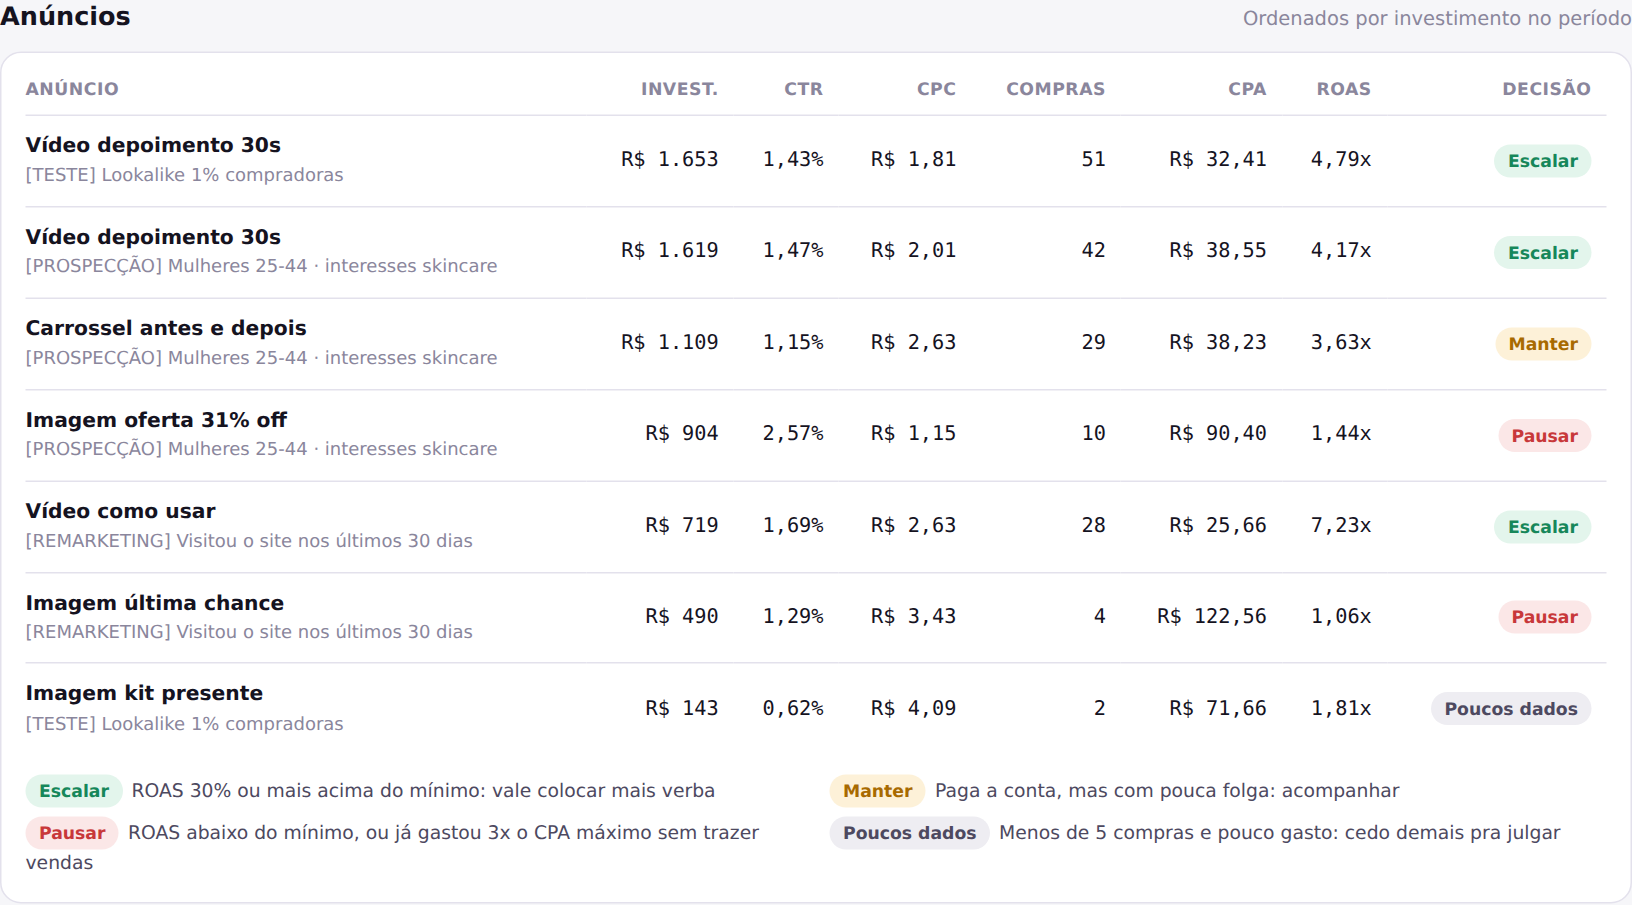
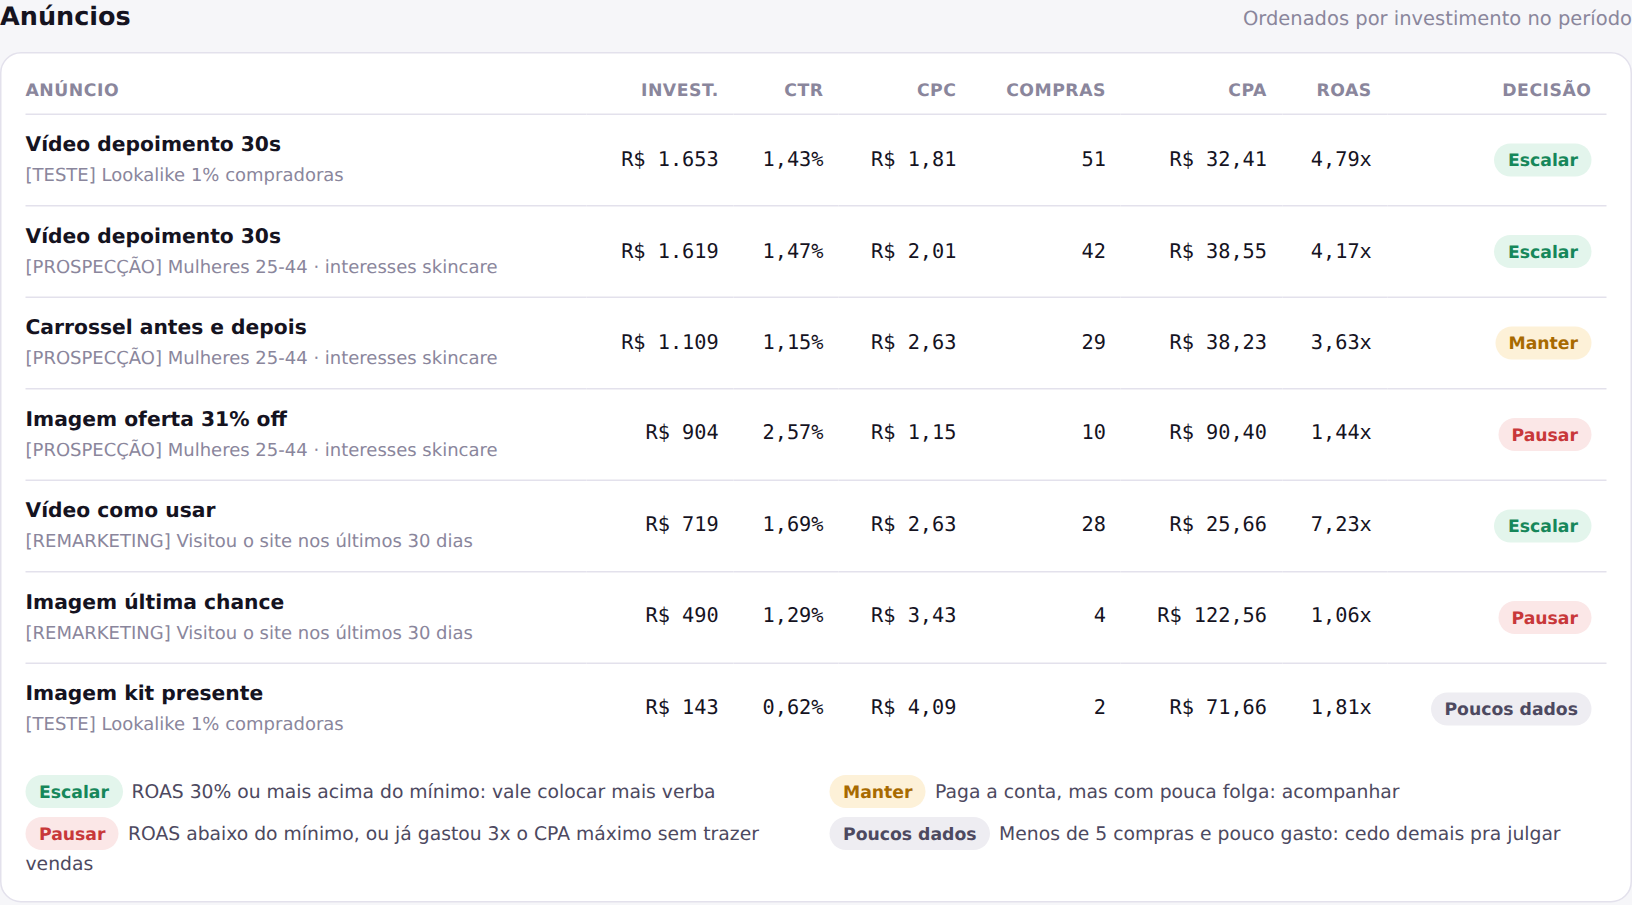
Revisão geral: leitura robusta de exportações reais e XSS pela data
- Célula vazia (como o Meta exporta métricas zeradas) derrubava o script
- Número com ponto decimal (conta em inglês) era lido 100x maior
- Contagens com ponto de milhar ("1.758") passam a ser lidas certo
- Calendário contínuo: dias sem gasto não somem da janela de período
- Data do CSV ia sem escape pro gráfico e executava código (XSS);
  agora toda data é validada e colunas faltando geram erro claro
- Leitura do gráfico zera ao trocar período e funciona com toque
- Rótulos "(Meta)" nos indicadores atribuídos; KPIs alinhados
- README: achados da revisão, limites da regra de escalar, afirmações
  que não dava pra sustentar suavizadas

Claude-Session: https://claude.ai/code/session_01SNGhJTcjeFguq5sm6ngrpK

diff --git a/public/index.html b/public/index.html
@@ -72,8 +72,9 @@
   .card{background:var(--surface); border:1px solid var(--border); border-radius:14px; padding:16px;}
 
   .kpis{display:grid; grid-template-columns:repeat(6,1fr); gap:10px;}
-  .kpi{background:var(--surface); border:1px solid var(--border); border-radius:14px; padding:13px 14px; min-width:0;}
-  .kpi .lbl{font-size:11.5px; font-weight:600; color:var(--muted); text-transform:uppercase; letter-spacing:.04em;}
+  .kpi{background:var(--surface); border:1px solid var(--border); border-radius:14px; padding:13px 14px; min-width:0; display:flex; flex-direction:column;}
+  /* flex:1 no rótulo: se um rótulo quebra linha, os valores da mesma fileira continuam alinhados */
+  .kpi .lbl{flex:1;font-size:11.5px; font-weight:600; color:var(--muted); text-transform:uppercase; letter-spacing:.04em;}
   .kpi .val{font:600 21px var(--mono); margin-top:5px; font-variant-numeric:tabular-nums; overflow-wrap:anywhere;}
   .kpi .sub{font-size:12px; color:var(--ink-2); margin-top:3px; min-height:17px;}
   .delta{font-weight:700;}
@@ -169,7 +170,8 @@
     </div>
     <label class="margem">
       Margem do produto
-      <input type="number" id="margem" min="5" max="90" step="1" value="35" inputmode="numeric">%
+      <input type="number" id="margem" min="5" max="90" step="1" value="35" inputmode="numeric"
+        title="O que sobra de cada venda depois do custo do produto, impostos, taxa do cartão e frete — antes de pagar o anúncio">%
       <span class="limites">ROAS mínimo <span class="be num" id="be">—</span> · CPA máximo <span class="be num" id="cpamax">—</span></span>
     </label>
   </div>
@@ -186,9 +188,9 @@
       <div class="kpi"><div class="lbl">Investimento</div><div class="val" id="k-gasto">—</div><div class="sub" id="d-gasto"></div></div>
       <div class="kpi"><div class="lbl">Receita (Meta)</div><div class="val" id="k-receita">—</div><div class="sub" id="d-receita"></div></div>
       <div class="kpi"><div class="lbl">ROAS (Meta)</div><div class="val" id="k-roas">—</div><div class="sub" id="d-roas"></div></div>
-      <div class="kpi"><div class="lbl">Compras</div><div class="val" id="k-compras">—</div><div class="sub" id="d-compras"></div></div>
+      <div class="kpi"><div class="lbl">Compras (Meta)</div><div class="val" id="k-compras">—</div><div class="sub" id="d-compras"></div></div>
       <div class="kpi"><div class="lbl">Custo por compra</div><div class="val" id="k-cpa">—</div><div class="sub" id="d-cpa"></div></div>
-      <div class="kpi"><div class="lbl">Lucro estimado</div><div class="val" id="k-lucro">—</div><div class="sub" id="d-lucro"></div></div>
+      <div class="kpi"><div class="lbl">Lucro estimado (Meta)</div><div class="val" id="k-lucro">—</div><div class="sub" id="d-lucro"></div></div>
     </div>
   </section>
 
@@ -226,7 +228,7 @@
     </div>
     <div class="card grafico">
       <div id="grafico"></div>
-      <div class="leitura num" id="leitura">Passe o dedo ou o mouse sobre o gráfico</div>
+      <div class="leitura num" id="leitura"></div>
     </div>
   </section>
 
@@ -460,7 +462,8 @@ function renderGrafico(porDia, ini){
 
   var cursor = document.getElementById("cursor");
   var leitura = document.getElementById("leitura");
-  document.getElementById("alvo").addEventListener("pointermove", function(ev){
+  leitura.textContent = "Toque ou passe o mouse sobre o gráfico pra ver cada dia";
+  function mostrarDia(ev){
     var r = ev.currentTarget.getBoundingClientRect();
     var i = Math.round((ev.clientX - r.left) / r.width * (n - 1));
     i = Math.max(0, Math.min(n - 1, i));
@@ -468,7 +471,10 @@ function renderGrafico(porDia, ini){
     cursor.setAttribute("x1", x(i)); cursor.setAttribute("x2", x(i));
     leitura.textContent = dataBR(D.dias[ini + i]) + " · investimento " + brl.format(d.gasto) +
       " · receita " + brl.format(d.valor) + " · ROAS " + (d.gasto ? vezes(d.valor / d.gasto) : "—");
-  });
+  }
+  var alvo = document.getElementById("alvo");
+  alvo.addEventListener("pointermove", mostrarDia);
+  alvo.addEventListener("pointerdown", mostrarDia);
 }
 
 function renderAtribuicao(t, loja, roasMin){

diff --git a/scripts/dashboard_template.html b/scripts/dashboard_template.html
@@ -72,8 +72,9 @@
   .card{background:var(--surface); border:1px solid var(--border); border-radius:14px; padding:16px;}
 
   .kpis{display:grid; grid-template-columns:repeat(6,1fr); gap:10px;}
-  .kpi{background:var(--surface); border:1px solid var(--border); border-radius:14px; padding:13px 14px; min-width:0;}
-  .kpi .lbl{font-size:11.5px; font-weight:600; color:var(--muted); text-transform:uppercase; letter-spacing:.04em;}
+  .kpi{background:var(--surface); border:1px solid var(--border); border-radius:14px; padding:13px 14px; min-width:0; display:flex; flex-direction:column;}
+  /* flex:1 no rótulo: se um rótulo quebra linha, os valores da mesma fileira continuam alinhados */
+  .kpi .lbl{flex:1;font-size:11.5px; font-weight:600; color:var(--muted); text-transform:uppercase; letter-spacing:.04em;}
   .kpi .val{font:600 21px var(--mono); margin-top:5px; font-variant-numeric:tabular-nums; overflow-wrap:anywhere;}
   .kpi .sub{font-size:12px; color:var(--ink-2); margin-top:3px; min-height:17px;}
   .delta{font-weight:700;}
@@ -169,7 +170,8 @@
     </div>
     <label class="margem">
       Margem do produto
-      <input type="number" id="margem" min="5" max="90" step="1" value="35" inputmode="numeric">%
+      <input type="number" id="margem" min="5" max="90" step="1" value="35" inputmode="numeric"
+        title="O que sobra de cada venda depois do custo do produto, impostos, taxa do cartão e frete — antes de pagar o anúncio">%
       <span class="limites">ROAS mínimo <span class="be num" id="be">—</span> · CPA máximo <span class="be num" id="cpamax">—</span></span>
     </label>
   </div>
@@ -186,9 +188,9 @@
       <div class="kpi"><div class="lbl">Investimento</div><div class="val" id="k-gasto">—</div><div class="sub" id="d-gasto"></div></div>
       <div class="kpi"><div class="lbl">Receita (Meta)</div><div class="val" id="k-receita">—</div><div class="sub" id="d-receita"></div></div>
       <div class="kpi"><div class="lbl">ROAS (Meta)</div><div class="val" id="k-roas">—</div><div class="sub" id="d-roas"></div></div>
-      <div class="kpi"><div class="lbl">Compras</div><div class="val" id="k-compras">—</div><div class="sub" id="d-compras"></div></div>
+      <div class="kpi"><div class="lbl">Compras (Meta)</div><div class="val" id="k-compras">—</div><div class="sub" id="d-compras"></div></div>
       <div class="kpi"><div class="lbl">Custo por compra</div><div class="val" id="k-cpa">—</div><div class="sub" id="d-cpa"></div></div>
-      <div class="kpi"><div class="lbl">Lucro estimado</div><div class="val" id="k-lucro">—</div><div class="sub" id="d-lucro"></div></div>
+      <div class="kpi"><div class="lbl">Lucro estimado (Meta)</div><div class="val" id="k-lucro">—</div><div class="sub" id="d-lucro"></div></div>
     </div>
   </section>
 
@@ -226,7 +228,7 @@
     </div>
     <div class="card grafico">
       <div id="grafico"></div>
-      <div class="leitura num" id="leitura">Passe o dedo ou o mouse sobre o gráfico</div>
+      <div class="leitura num" id="leitura"></div>
     </div>
   </section>
 
@@ -460,7 +462,8 @@ function renderGrafico(porDia, ini){
 
   var cursor = document.getElementById("cursor");
   var leitura = document.getElementById("leitura");
-  document.getElementById("alvo").addEventListener("pointermove", function(ev){
+  leitura.textContent = "Toque ou passe o mouse sobre o gráfico pra ver cada dia";
+  function mostrarDia(ev){
     var r = ev.currentTarget.getBoundingClientRect();
     var i = Math.round((ev.clientX - r.left) / r.width * (n - 1));
     i = Math.max(0, Math.min(n - 1, i));
@@ -468,7 +471,10 @@ function renderGrafico(porDia, ini){
     cursor.setAttribute("x1", x(i)); cursor.setAttribute("x2", x(i));
     leitura.textContent = dataBR(D.dias[ini + i]) + " · investimento " + brl.format(d.gasto) +
       " · receita " + brl.format(d.valor) + " · ROAS " + (d.gasto ? vezes(d.valor / d.gasto) : "—");
-  });
+  }
+  var alvo = document.getElementById("alvo");
+  alvo.addEventListener("pointermove", mostrarDia);
+  alvo.addEventListener("pointerdown", mostrarDia);
 }
 
 function renderAtribuicao(t, loja, roasMin){

diff --git a/scripts/gerar_dashboard_html.py b/scripts/gerar_dashboard_html.py
@@ -12,28 +12,61 @@ ou a margem do produto.
 import csv
 import json
 import os
-from datetime import date
+from datetime import date, datetime, timedelta
 
 from gerar_dados import slug
 
 RAIZ = os.path.join(os.path.dirname(__file__), "..")
 
 
-def numero_br(texto: str) -> float:
-    """'1.234,56' -> 1234.56 (formato do Excel brasileiro)."""
-    return float(texto.replace(".", "").replace(",", "."))
+COLUNAS_META = [
+    "Dia", "Nome da campanha", "Nome do anúncio", "Valor usado (BRL)", "Impressões",
+    "Cliques no link", "Adições ao carrinho", "Finalizações de compra iniciadas",
+    "Compras", "Valor de conversão de compras",
+]
+COLUNAS_PEDIDOS = ["Data", "Status do pagamento", "Total", "utm_campaign", "utm_content"]
 
 
-def ler_csv(nome: str) -> list[dict]:
-    with open(os.path.join(RAIZ, "data", "raw", nome), newline="", encoding="utf-8") as f:
-        return list(csv.DictReader(f, delimiter=";"))
+def numero(texto: str) -> float:
+    """
+    Aceita os dois formatos que o Meta exporta, conforme o idioma da conta:
+    '1.234,56' (português) e '1234.56' (inglês). Célula vazia = 0 — o Meta
+    deixa em branco as métricas que não aconteceram no dia.
+    """
+    texto = texto.strip()
+    if not texto:
+        return 0.0
+    if "," in texto:
+        texto = texto.replace(".", "").replace(",", ".")
+    return float(texto)
+
+
+def inteiro(texto: str) -> int:
+    """Contagens nunca têm casas decimais: '1.758' e '1,758' são mil e poucos."""
+    texto = texto.strip().replace(".", "").replace(",", "")
+    return int(texto) if texto else 0
+
+
+def ler_csv(nome: str, colunas: list[str]) -> list[dict]:
+    with open(os.path.join(RAIZ, "data", "raw", nome), newline="", encoding="utf-8-sig") as f:
+        leitor = csv.DictReader(f, delimiter=";")
+        faltando = [c for c in colunas if c not in (leitor.fieldnames or [])]
+        if faltando:
+            raise SystemExit(f"{nome}: faltam as colunas {faltando}. Confira se o relatório foi "
+                             "exportado com essas métricas (e com separador ';').")
+        return list(leitor)
 
 
 def montar_dados() -> dict:
-    meta = ler_csv("meta_ads_export.csv")
-    pedidos = ler_csv("pedidos_nuvemshop.csv")
+    meta = ler_csv("meta_ads_export.csv", COLUNAS_META)
+    pedidos = ler_csv("pedidos_nuvemshop.csv", COLUNAS_PEDIDOS)
 
-    dias = sorted({linha["Dia"] for linha in meta})
+    # fromisoformat valida a data (texto estranho aqui para o script, em vez
+    # de ir parar dentro da página). O intervalo é contínuo porque o Meta não
+    # exporta dias sem gasto — sem isso, "últimos 7 dias" pularia dias.
+    datas = {date.fromisoformat(linha["Dia"].strip()) for linha in meta}
+    primeiro, ultimo = min(datas), max(datas)
+    dias = [(primeiro + timedelta(days=i)).isoformat() for i in range((ultimo - primeiro).days + 1)]
     indice_dia = {d: i for i, d in enumerate(dias)}
 
     anuncios, indice_anuncio = [], {}
@@ -46,22 +79,22 @@ def montar_dados() -> dict:
 
     linhas_meta = [
         [
-            indice_dia[l["Dia"]],
+            indice_dia[date.fromisoformat(l["Dia"].strip()).isoformat()],
             indice_anuncio[(l["Nome da campanha"], l["Nome do anúncio"])],
-            numero_br(l["Valor usado (BRL)"]),
-            int(l["Impressões"]),
-            int(l["Cliques no link"]),
-            int(l["Adições ao carrinho"]),
-            int(l["Finalizações de compra iniciadas"]),
-            int(l["Compras"]),
-            numero_br(l["Valor de conversão de compras"]),
+            numero(l["Valor usado (BRL)"]),
+            inteiro(l["Impressões"]),
+            inteiro(l["Cliques no link"]),
+            inteiro(l["Adições ao carrinho"]),
+            inteiro(l["Finalizações de compra iniciadas"]),
+            inteiro(l["Compras"]),
+            numero(l["Valor de conversão de compras"]),
         ]
         for l in meta
     ]
 
     linhas_pedidos, sem_anuncio = [], 0
     for p in pedidos:
-        dia = date(*reversed([int(x) for x in p["Data"].split("/")])).isoformat()
+        dia = datetime.strptime(p["Data"].strip()[:10], "%d/%m/%Y").date().isoformat()
         anuncio = por_utm.get((p["utm_campaign"], p["utm_content"]), -1)
         if anuncio == -1:
             sem_anuncio += 1
@@ -69,7 +102,7 @@ def montar_dados() -> dict:
             linhas_pedidos.append([
                 indice_dia[dia], anuncio,
                 1 if p["Status do pagamento"] == "Pago" else 0,
-                numero_br(p["Total"]),
+                numero(p["Total"]),
             ])
 
     return {

diff --git a/scripts/gerar_dados.py b/scripts/gerar_dados.py
@@ -23,8 +23,6 @@ import os
 import random
 from datetime import date, timedelta
 
-random.seed(2026)
-
 FIM = date(2026, 9, 20)
 DIAS = 60
 INICIO = FIM - timedelta(days=DIAS - 1)
@@ -77,6 +75,7 @@ def br(valor: float) -> str:
 
 
 def simular():
+    random.seed(2026)
     linhas_meta, pedidos = [], []
     numero_pedido = 10231
     for d in range(DIAS):

diff --git a/README.md b/README.md
@@ -24,11 +24,12 @@ cruzando o relatório do Meta Ads com os pedidos reais da loja.
 
 ## Por que esse projeto
 
-As vagas de gestor de tráfego no Workana pedem, quase sempre, a mesma
-entrega além das campanhas: **relatórios semanais claros**, acompanhando
-os indicadores e sugerindo melhorias. Ferramentas prontas (Reportei,
-por exemplo) fazem relatório bonito, mas repetem os números do Meta — não
-dizem se o anúncio dá lucro pro produto *daquela* loja.
+As vagas de gestor de tráfego que encontrei no Workana costumam pedir,
+além das campanhas, **relatórios semanais claros**, acompanhando os
+indicadores e sugerindo melhorias. O diferencial que busquei aqui é
+levar em conta a margem do produto *daquela* loja e conferir o relatório
+do Meta contra os pedidos reais — os dois pontos em que um relatório que
+só repete as métricas da plataforma pode enganar.
 
 Este projeto continua o [projeto 4](https://github.com/jvtdemiranda/landing-produto-trafego-pago)
 (página de venda da mesma marca fictícia, Alara): lá, a página grava de
@@ -53,10 +54,10 @@ Cada número do painel responde uma pergunta de negócio:
   se ele já gastou 3 vezes esse valor e quase não vendeu, não precisa
   esperar mais pra pausar.
 - **Funil** — impressões → cliques → carrinho → checkout → compra. Cada
-  etapa aponta um problema diferente: CTR baixo (abaixo de ~1%) é
-  criativo ou público errado; muita gente clica e não põe no carrinho é
-  a página ou a oferta; desistência entre carrinho e checkout costuma ser
-  frete ou prazo.
+  etapa aponta um problema diferente: CTR baixo (abaixo de ~1%) costuma
+  indicar criativo ou público errado; muita gente clicando e pouca
+  colocando no carrinho aponta pra página ou oferta; desistência entre
+  carrinho e checkout costuma ser frete ou prazo.
 - **CTR alto não é sinônimo de venda.** No exemplo, o anúncio "Imagem
   oferta 31% off" tem o maior CTR da conta (2,57%) e o pior ROAS (1,44x):
   o "31% off" atrai clique curioso de quem não compra. Olhando só CTR,
@@ -88,6 +89,14 @@ Cada número do painel responde uma pergunta de negócio:
 frase. Os limites (30%, 5 vendas, 3x) ficam em constantes no começo do
 JavaScript do painel, fáceis de ajustar.
 
+Ela tem limites que o gestor precisa conhecer: **"escalar" não significa
+que dá pra multiplicar a verba sem fim.** O remarketing, por exemplo, tem
+o melhor ROAS da conta, mas fala só com quem já visitou o site — é um
+público pequeno, e mais verba ali mostra o mesmo anúncio mais vezes pras
+mesmas pessoas, com retorno cada vez menor. E um aumento grande de verba
+de uma vez costuma piorar o resultado por uns dias enquanto o algoritmo
+do Meta reaprende; o usual é subir aos poucos.
+
 ## Como funciona
 
 ```
@@ -115,7 +124,11 @@ Sem dependências externas: só a biblioteca padrão do Python.
 de Anúncios, exportar o relatório com detalhamento por dia e por
 anúncio (colunas de valor usado, impressões, cliques no link, adições ao
 carrinho, finalizações de compra iniciadas, compras e valor de conversão);
-na Nuvemshop, exportar os pedidos com os campos de UTM.
+na Nuvemshop, exportar os pedidos com os campos de UTM. A leitura aguenta
+as variações de uma exportação real: células em branco (o Meta deixa
+vazio o que não aconteceu no dia), número com vírgula ou ponto decimal
+(depende do idioma da conta), ponto de milhar e dias sem gasto (que o
+Meta omite). Se faltar alguma coluna, o script para e diz qual.
 
 ## Decisões de projeto
 
@@ -154,11 +167,38 @@ na Nuvemshop, exportar os pedidos com os campos de UTM.
    R$ 779...) estavam dentro da área do gráfico e eram cortados pelas
    linhas; foram pra uma margem própria à esquerda.
 
+Uma revisão geral antes de publicar encontrou mais estes — os mais
+sérios, porque só apareceriam com dados reais:
+
+4. **Célula vazia derrubava o script.** O Meta exporta em branco as
+   métricas que não aconteceram no dia (um dia sem compra vem com
+   "Compras" vazio, não "0"). Os dados simulados sempre tinham números, e
+   a primeira exportação real quebraria a leitura.
+5. **Valor 100 vezes maior, sem aviso.** A leitura só entendia o formato
+   brasileiro (`48,55`). Numa conta do Meta configurada em inglês, que
+   exporta `48.55`, o ponto era descartado como separador de milhar e o
+   gasto virava R$ 4.855 — erro silencioso, sem mensagem nenhuma.
+6. **"Últimos 7 dias" cobrindo 8.** O Meta não exporta dias sem gasto.
+   Os dias do painel vinham só das datas presentes no arquivo, então um
+   dia faltando fazia a janela de 7 dias pular um dia e comparar
+   períodos de tamanhos diferentes. Agora o calendário é contínuo.
+7. **Brecha de segurança pela coluna de data.** Nomes de anúncio já eram
+   escapados, mas o texto da coluna de data ia direto para os rótulos do
+   gráfico. Testei com uma "data" contendo código (`<img onerror=...>`) e
+   ele executava na página — o mesmo tipo de falha (XSS) corrigido nos
+   projetos 1 e 3. Agora toda data é validada na leitura: qualquer coisa
+   que não seja data para o script com erro, em vez de chegar à página.
+8. **Leitura do gráfico com valores de outro período.** Ao trocar o
+   período, o texto abaixo do gráfico continuava mostrando o último dia
+   consultado no período anterior; e no celular, tocar no gráfico (sem
+   arrastar) não mostrava nada.
+
 Testes feitos: os números da tela conferidos contra um cálculo
-independente direto nos CSVs; nomes de anúncio com HTML/script
+independente direto nos CSVs; cada um dos casos 4 a 8 reproduzido na
+versão anterior e conferido depois da correção; nomes de anúncio com HTML/script
 malicioso (não executa — tudo que vem do CSV é escapado); sem rolagem
-horizontal de 320px a 1280px; dados idênticos gerados em Python 3.11 e
-3.12.
+horizontal de 320px a 1280px; tema claro e escuro; dados idênticos
+gerados em Python 3.11 e 3.12.
 
 ## Stack
 
